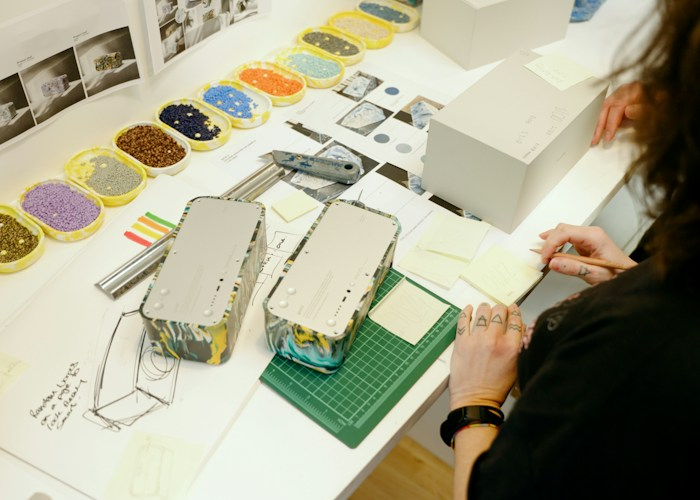
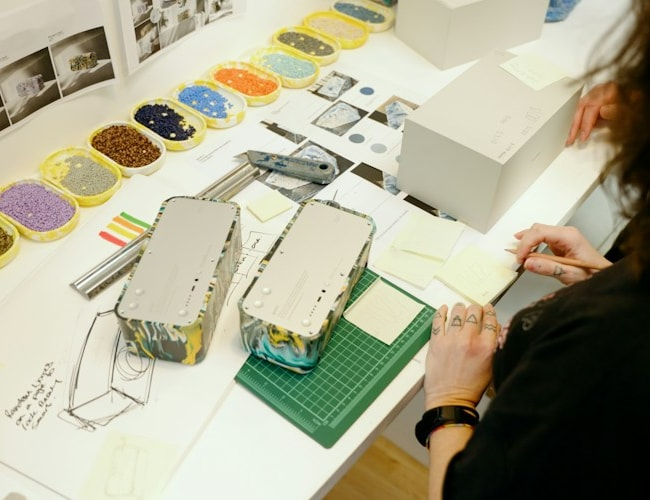
feat: add featured course section

diff --git a/src/components/featured-course/FeaturedCourse.tsx b/src/components/featured-course/FeaturedCourse.tsx
@@ -1,0 +1,68 @@
+import Image from 'next/image';
+
+import { ArrowLink } from '@/components/ui/ArrowLink';
+import { ButtonLink } from '@/components/ui/ButtonLink';
+import { Container } from '@/components/ui/Container';
+import { SectionHeader } from '@/components/ui/SectionHeader';
+
+import featuredCourse from '@/assets/images/featured-course.jpg';
+
+const details = ['8 lessons', '2h 40min', 'Intermediate'];
+
+export function FeaturedCourse() {
+  return (
+    <section
+      id='featured-course'
+      aria-labelledby='featured-course-title'
+      className='bg-primary-blue py-15 lg:py-25'
+    >
+      <Container className='grid gap-10 md:grid-cols-2 md:items-center lg:gap-15'>
+        <div className='relative'>
+          <div className='relative aspect-13/10 overflow-hidden rounded-2xl bg-primary-blue-light'>
+            <Image
+              src={featuredCourse}
+              alt='Student working on interface designs at a desk'
+              fill
+              sizes='auto, (min-width: 1024px) min(530px, calc(50vw - 110px)), (min-width: 768px) calc(50vw - 40px), calc(100vw - 40px)'
+              className='object-cover'
+            />
+          </div>
+          <p className='absolute -top-3 -left-3 rounded-md bg-secondary-yellow px-3 py-1.5 text-mobile-overline text-text-primary uppercase lg:text-desktop-overline'>
+            Featured course
+          </p>
+        </div>
+
+        <div>
+          <SectionHeader
+            id='featured-course-title'
+            overline='Most popular this month'
+            title='Designing products people understand.'
+            lead='Learn how to turn complex workflows into simple, intentional product experiences through research, structure and thoughtful interaction design.'
+            tone='onBlue'
+          />
+          <p className='mt-6 text-mobile-subtitle-2 text-text-white-primary lg:text-desktop-subtitle-2'>
+            with Maya Chen · Senior Product Designer
+          </p>
+          <ul className='mt-6 flex flex-wrap gap-3'>
+            {details.map((detail) => (
+              <li
+                key={detail}
+                className='rounded-lg border border-line-1 px-3.5 py-1.5 text-mobile-body-1 text-text-white-primary lg:text-desktop-body-1'
+              >
+                {detail}
+              </li>
+            ))}
+          </ul>
+          <div className='mt-8 flex flex-col gap-3 md:flex-row md:flex-wrap'>
+            <ButtonLink href='#' variant='onBlue'>
+              View course
+            </ButtonLink>
+            <ArrowLink href='#categories' tone='onBlue'>
+              Browse all courses
+            </ArrowLink>
+          </div>
+        </div>
+      </Container>
+    </section>
+  );
+}

diff --git a/src/components/featured-course/__tests__/FeaturedCourse.test.tsx b/src/components/featured-course/__tests__/FeaturedCourse.test.tsx
@@ -1,0 +1,49 @@
+import { render, screen, within } from '@testing-library/react';
+
+import { FeaturedCourse } from '@/components/featured-course/FeaturedCourse';
+
+describe('FeaturedCourse', () => {
+  it('is a section named by its heading', () => {
+    render(<FeaturedCourse />);
+
+    const heading = screen.getByRole('heading', {
+      level: 2,
+      name: 'Designing products people understand.',
+    });
+    const section = screen.getByRole('region', { name: heading.textContent! });
+    expect(section).toHaveAttribute('id', 'featured-course');
+  });
+
+  it('describes the course photo', () => {
+    render(<FeaturedCourse />);
+
+    expect(
+      screen.getByRole('img', {
+        name: 'Student working on interface designs at a desk',
+      }),
+    ).toBeInTheDocument();
+  });
+
+  it('lists the course details', () => {
+    render(<FeaturedCourse />);
+
+    const items = within(screen.getByRole('list')).getAllByRole('listitem');
+    expect(items.map((item) => item.textContent)).toEqual([
+      '8 lessons',
+      '2h 40min',
+      'Intermediate',
+    ]);
+  });
+
+  it('links to the course and to the course categories', () => {
+    render(<FeaturedCourse />);
+
+    expect(screen.getByRole('link', { name: 'View course' })).toHaveAttribute(
+      'href',
+      '#',
+    );
+    expect(
+      screen.getByRole('link', { name: 'Browse all courses' }),
+    ).toHaveAttribute('href', '#categories');
+  });
+});

diff --git a/src/app/page.tsx b/src/app/page.tsx
@@ -1,4 +1,5 @@
 import { Categories } from '@/components/categories/Categories';
+import { FeaturedCourse } from '@/components/featured-course/FeaturedCourse';
 import { Hero } from '@/components/hero/Hero';
 
 export default function HomePage() {
@@ -6,6 +7,7 @@ export default function HomePage() {
     <>
       <Hero />
       <Categories />
+      <FeaturedCourse />
     </>
   );
 }

diff --git a/docs/architecture.md b/docs/architecture.md
@@ -19,26 +19,27 @@ Luma is a single, statically rendered landing page. There is no backend, databas
 
 ```text
 src/
-├── app/                   # App Router: layout, page, error and not-found boundaries,
-│   │                      # metadata files (favicon, icon, apple-icon, opengraph-image, sitemap, robots)
-│   └── __tests__/         # tests for the route and its metadata
-├── assets/icons/          # Figma SVGs (SVGR components), typed and exported from index.ts
-├── assets/images/         # JPEG masters for next/image (hero, course, people/, avatars/)
-├── assets/fonts/          # static TTFs read only by the generated share image
-├── components/layout/     # SiteShell: skip link, header, main, footer
-├── components/header/     # Header, MobileMenu (the client leaf), shared nav link classes
-├── components/footer/     # Footer
-├── components/hero/       # Hero (the page's h1 and LCP image)
-├── components/categories/ # Categories (course category cards)
-├── components/ui/         # primitives: Container, Button, ButtonLink, ArrowLink, SectionHeader
-├── data/                  # typed content modules (navigation.ts, categories.ts)
-├── lib/site.ts            # site name, title, description and URL (see below)
-├── lib/theme.ts           # reads color tokens from globals.css for generated images
-├── lib/utils.ts           # cn(): clsx + tailwind-merge that knows the type tokens
-├── styles/globals.css     # Tailwind entry + @theme design tokens
-└── __mocks__/svg.tsx      # Jest stand-in for SVGR imports
-docs/                      # this folder; ADRs in docs/adr/
-scripts/adr.sh             # ADR check (pnpm adr:check)
+├── app/                        # App Router: layout, page, error and not-found boundaries,
+│   │                           # metadata files (favicon, icon, apple-icon, opengraph-image, sitemap, robots)
+│   └── __tests__/              # tests for the route and its metadata
+├── assets/icons/               # Figma SVGs (SVGR components), typed and exported from index.ts
+├── assets/images/              # JPEG masters for next/image (hero, course, people/, avatars/)
+├── assets/fonts/               # static TTFs read only by the generated share image
+├── components/layout/          # SiteShell: skip link, header, main, footer
+├── components/header/          # Header, MobileMenu (the client leaf), shared nav link classes
+├── components/footer/          # Footer
+├── components/hero/            # Hero (the page's h1 and LCP image)
+├── components/categories/      # Categories (course category cards)
+├── components/featured-course/ # FeaturedCourse (the highlighted course)
+├── components/ui/              # primitives: Container, Button, ButtonLink, ArrowLink, SectionHeader
+├── data/                       # typed content modules (navigation.ts, categories.ts)
+├── lib/site.ts                 # site name, title, description and URL (see below)
+├── lib/theme.ts                # reads color tokens from globals.css for generated images
+├── lib/utils.ts                # cn(): clsx + tailwind-merge that knows the type tokens
+├── styles/globals.css          # Tailwind entry + @theme design tokens
+└── __mocks__/svg.tsx           # Jest stand-in for SVGR imports
+docs/                           # this folder; ADRs in docs/adr/
+scripts/adr.sh                  # ADR check (pnpm adr:check)
 ```
 
 _Planned_ (added by the tasks that need them):
@@ -57,13 +58,14 @@ _Planned_ (added by the tasks that need them):
 
 See the [mock data ADR](adr/202611131621-serve-content-from-typed-local-mock-data.md).
 
-| Concern                                                     | Today                                                                                   | Real-world replacement                                               |
-| ----------------------------------------------------------- | --------------------------------------------------------------------------------------- | -------------------------------------------------------------------- |
-| Page content (categories, steps, stats, testimonial, links) | Typed TypeScript modules in `src/data/` (navigation, categories; the rest _planned_)    | A CMS or API returning the same types, fetched in a Server Component |
-| Contact form submission                                     | Client-side validation and a simulated success/error state; nothing is sent (_planned_) | A Server Action or API route posting to an email or CRM service      |
-| Hero figures (24,000+ learners, 120+ courses, 4.9 rating)   | Static copy in `Hero.tsx`                                                               | Counts and the average rating from the course catalogue's API        |
-| Auth ("Log in", "Start learning")                           | Links only                                                                              | An auth provider; out of scope                                       |
-| Navigation and category card targets                        | In-page anchors where a section exists, `#` otherwise                                   | Real routes                                                          |
+| Concern                                                       | Today                                                                                   | Real-world replacement                                               |
+| ------------------------------------------------------------- | --------------------------------------------------------------------------------------- | -------------------------------------------------------------------- |
+| Page content (categories, steps, stats, testimonial, links)   | Typed TypeScript modules in `src/data/` (navigation, categories; the rest _planned_)    | A CMS or API returning the same types, fetched in a Server Component |
+| Contact form submission                                       | Client-side validation and a simulated success/error state; nothing is sent (_planned_) | A Server Action or API route posting to an email or CRM service      |
+| Hero figures (24,000+ learners, 120+ courses, 4.9 rating)     | Static copy in `Hero.tsx`                                                               | Counts and the average rating from the course catalogue's API        |
+| Featured course (title, instructor, lessons, duration, level) | Static copy in `FeaturedCourse.tsx`                                                     | The catalogue's "most popular this month" course from its API        |
+| Auth ("Log in", "Start learning")                             | Links only                                                                              | An auth provider; out of scope                                       |
+| Navigation, category card and course link targets             | In-page anchors where a section exists, `#` otherwise                                   | Real routes                                                          |
 
 ## Quality gates
 

diff --git a/docs/frontend/styleguide.md b/docs/frontend/styleguide.md
@@ -174,12 +174,21 @@ Icons are listed in [styling.md](styling.md#icons).
 - **Hover** (not in Figma): the border darkens from `line-1` to `text-tertiary` and "Explore" underlines; the color animates only under `motion-safe:`.
 - **Grid:** one column with 16 px gaps; 2 × 2 from `md`; 4 in a row with 20 px gaps from `lg`. At 1024 px the cards are about 200 px wide and "Product Design" wraps to two lines; "Explore" still lines up.
 
+### FeaturedCourse
+
+`src/components/featured-course/FeaturedCourse.tsx`, `primary-blue`, `py-15 lg:py-25`, `id="featured-course"`. Copy that appears once stays in the component.
+
+- **Image column:** the course photo (`rounded-2xl`, `object-cover`, lazy) in a 13:10 frame at every width (Figma draws 362 × 280 on mobile and 530 × 408 on desktop, both about 13:10). The "Featured course" tag (`secondary-yellow`, `rounded-md`, overline in `text-primary`) overlaps its top-left corner by 12 px.
+- **Copy column:** `SectionHeader` with `tone='onBlue'`, then the instructor line (subtitle 2) 24 px below, the course details 24 px below as a list of chips (`line-1` border, `rounded-lg`, body 1 in `text-white-primary` at every width; the mobile frame's `text-white-secondary` fails AA), then the actions 32 px below: "View course" (`ButtonLink` `onBlue`, `#`: no course page exists) and "Browse all courses" (`ArrowLink` `onBlue`, `#categories`).
+- **Mobile:** image first, copy below, 40 px apart; the actions stack full width.
+- **`md` and up:** two columns, vertically centered, 40 px apart (60 px from `lg`); mobile type until `lg`. The actions sit in a row and wrap when the column is too narrow for both (at 768, "Browse all courses" drops to its own line).
+
 ## Accessibility deviations
 
 Where a Figma pairing misses WCAG AA, the build deviates from the frame and the pattern above says so.
 
-| Element                     | Figma                           | Built                                                            | Why                                                                                                                    |
-| --------------------------- | ------------------------------- | ---------------------------------------------------------------- | ---------------------------------------------------------------------------------------------------------------------- |
-| Text link on `primary-blue` | `text-white-secondary` (4.46:1) | `text-white-primary` (5.49:1)                                    | SC 1.4.3 needs 4.5:1 for 14 px bold text                                                                               |
-| Form field placeholder      | `text-tertiary` (4.45:1)        | `text-secondary` (5.30:1)                                        | SC 1.4.3 covers placeholder text                                                                                       |
-| Form field border           | `line-1` (1.33:1 on the card)   | `line-input` `#7c8ab6` (3.40:1 on the card, 3.20:1 on the field) | SC 1.4.11: the border is what shows the input, so it needs 3:1. The field background alone is 1.06:1 against the card. |
+| Element                | Figma                           | Built                                                            | Why                                                                                                                    |
+| ---------------------- | ------------------------------- | ---------------------------------------------------------------- | ---------------------------------------------------------------------------------------------------------------------- |
+| Text on `primary-blue` | `text-white-secondary` (4.46:1) | `text-white-primary` (5.49:1)                                    | SC 1.4.3 needs 4.5:1 for 14 px text (FeaturedCourse link and chips)                                                    |
+| Form field placeholder | `text-tertiary` (4.45:1)        | `text-secondary` (5.30:1)                                        | SC 1.4.3 covers placeholder text                                                                                       |
+| Form field border      | `line-1` (1.33:1 on the card)   | `line-input` `#7c8ab6` (3.40:1 on the card, 3.20:1 on the field) | SC 1.4.11: the border is what shows the input, so it needs 3:1. The field background alone is 1.06:1 against the card. |

diff --git a/docs/frontend/styling.md b/docs/frontend/styling.md
@@ -85,12 +85,12 @@ import heroLearner from '@/assets/images/hero-learner.jpg';
 - Only the LCP image (the hero photo) loads early, with `loading='eager'` and `fetchPriority='high'`. Don't use `preload`: it adds a head preload but no fetch priority, and the image is already in the server HTML. `priority` is deprecated in Next 16.
 - Fixed-size images (avatars) pass `width` and `height` and no `sizes`. `next/image` then generates 1x and 2x.
 - A master is the Figma source, resized only when it's bigger than needed: max(desktop drawn width × 2, mobile drawn width × 3). Fixed-size images stop at 2×. Resized masters are re-encoded with sharp at JPEG quality 90.
-- **`sizes` counts the frame, not the drawn photo.** With `object-cover`, a photo wider than its frame is drawn wider than the frame, and the browser under-fetches. So the collage masters are pre-cropped, centered, to the shape their frames show: the source's aspect ratio clamped between the narrowest and widest of its frames (desktop and mobile). If the width `next/image` serves for a frame would still fall short of the frame's target density, crop to the narrowest frame instead (`student-campus`). Re-crop a master when its frame's shape changes.
+- **`sizes` counts the frame, not the drawn photo.** With `object-cover`, a photo wider than its frame is drawn wider than the frame, and the browser under-fetches. So the collage masters are pre-cropped, centered, to the shape their frames show: the source's aspect ratio clamped between the narrowest and widest of its frames (desktop and mobile). If the width `next/image` serves for a frame would still fall short of the frame's target density, crop to the narrowest frame instead (`student-campus`). The course photo is cropped the same way, to the 13:10 of its frames. Re-crop a master when its frame's shape changes.
 
 | Master                       | Size                        | Where                      | Rendered (desktop / mobile) |
 | ---------------------------- | --------------------------- | -------------------------- | --------------------------- |
 | `hero-learner.jpg`           | 900×1100                    | Hero, LCP                  | 356–500 wide / 346×380      |
-| `featured-course.jpg`        | 700×500                     | FeaturedCourse             | 538×408 / 362×280           |
+| `featured-course.jpg`        | 650×500, cropped to 13:10   | FeaturedCourse             | ≤ 530×408 / 362×278         |
 | `people/*.jpg` (10)          | 216–302 w, cropped to frame | People collage             | ≤ 138×207 / ≤ 94×129        |
 | `avatars/learner-{1..4}.jpg` | 80×80                       | Hero (1–3), FinalCTA (all) | 32 / 40 px                  |
 | `avatars/alex-morgan.jpg`    | 96×96                       | Testimonial                | 48 px                       |
